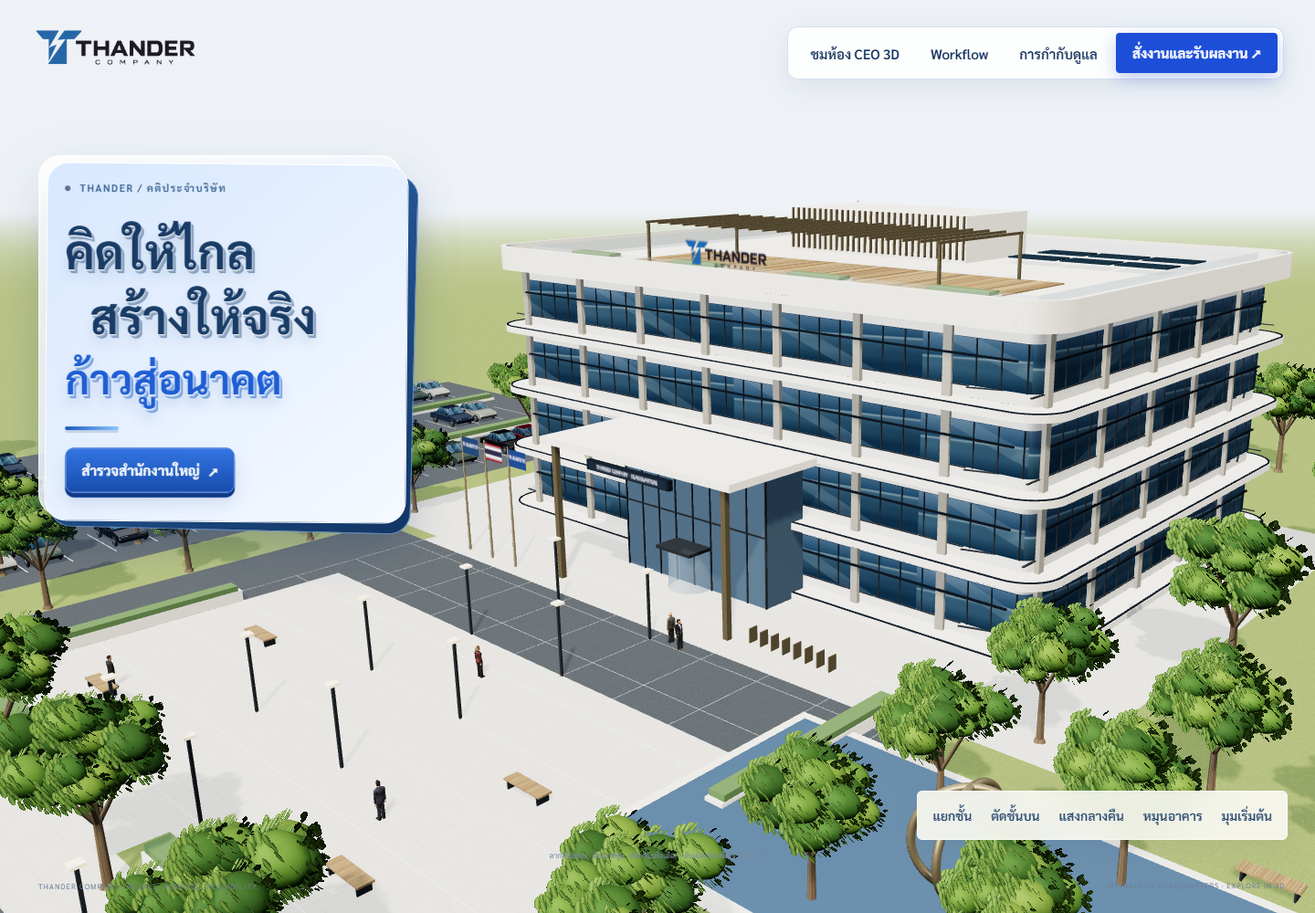
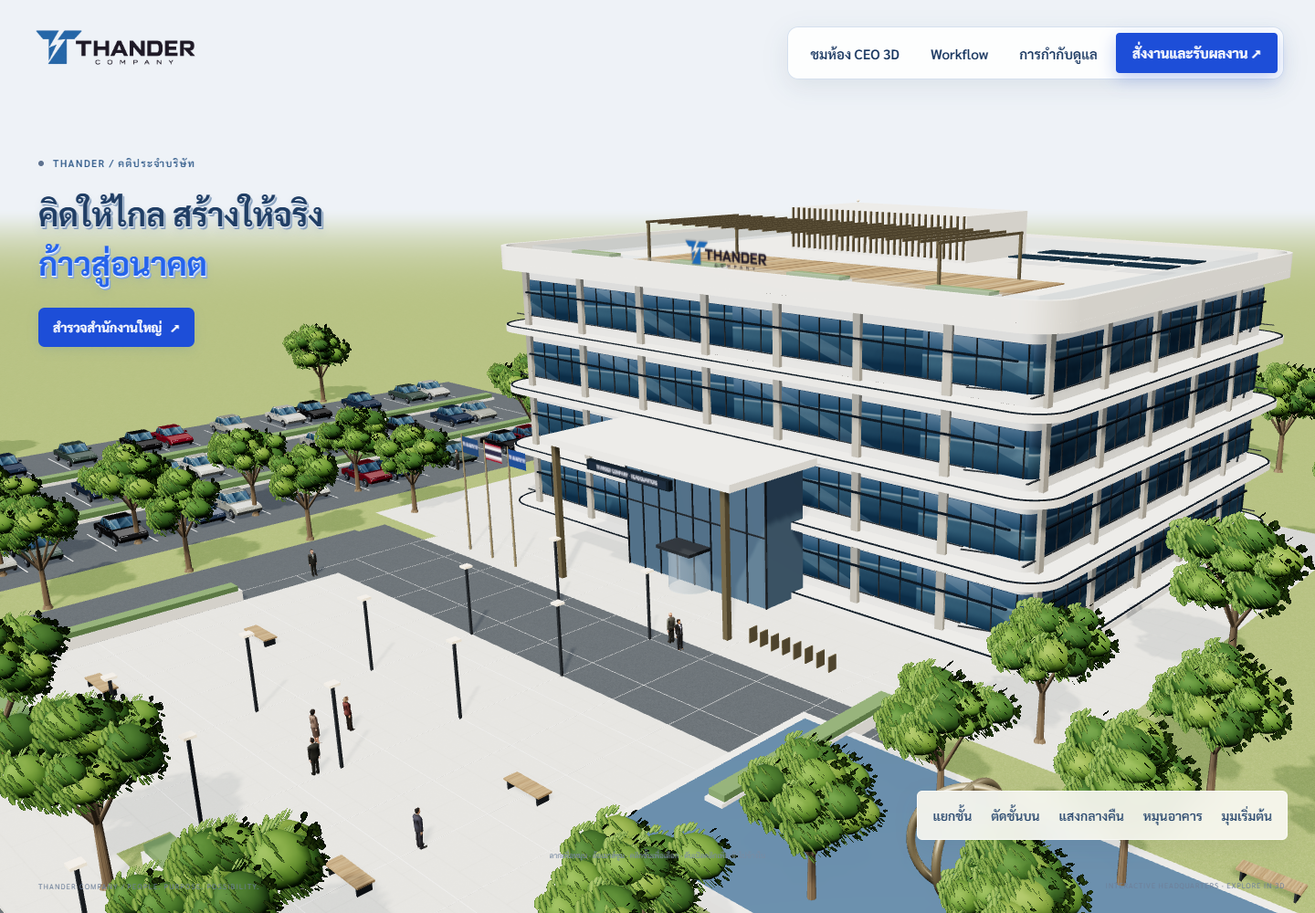
Show THANDER employee principles and compact motto

diff --git a/Portfolio.html b/Portfolio.html
@@ -3439,13 +3439,13 @@ a:focus-visible, button:focus-visible, input:focus-visible { outline: 2px solid 
         <!-- Slide 6: THANDER Company -->
         <div class="proj-slide" style="min-width:100%;overflow-y:auto;max-height:calc(90vh - 130px);">
           <div style="width:100%;aspect-ratio:600/225;background:#172d4c;overflow:hidden;position:relative;">
-            <img src="images/projects/thander-company.png" width="1440" height="1000" loading="lazy" alt="THANDER Company — คติบริษัทตัวอักษรนูนบนแผ่นซ้อน พร้อมสำนักงานใหญ่ 3D" style="width:100%;height:100%;object-fit:cover;object-position:center 47%;">
+            <img src="images/projects/thander-company.png" width="1440" height="1000" loading="lazy" alt="THANDER Company — คติบริษัทตัวอักษรนูนแบบไม่มีกรอบ พร้อมหลักรับงาน หา บอก ปล่อย ทุกแผนก" style="width:100%;height:100%;object-fit:cover;object-position:center 47%;">
             <span style="position:absolute;bottom:12px;left:16px;background:#152b32ed;padding:6px 10px;border-radius:6px;font-size:0.6rem;letter-spacing:0.1em;color:#c5daff;">4 FLOORS · 12 DEPARTMENTS · 66 ROLES</span>
           </div>
           <div style="padding:1.75rem;">
             <span style="display:inline-block;font-size:0.68rem;font-weight:700;letter-spacing:0.12em;color:#93bfff;border:1px solid #93bfff44;border-radius:99px;padding:0.25rem 0.75rem;margin-bottom:1rem;">3D Campus · Workflow · CEO Workspace</span>
             <h3 class="bento-title" style="margin-bottom:0.65rem;">THANDER Company</h3>
-            <p style="font-size:0.9rem;line-height:1.85;color:rgba(248,250,252,0.72);margin:0 0 1.25rem;">สำนักงานใหญ่ 3D ออกแบบใหม่ระดับบริษัทชั้นนำ 4 ชั้น 12 ฝ่าย 66 บทบาท ขนาดห้องตามมาตรฐานออฟฟิศจริง มีล็อบบี้ ห้องประชุมชั้นละห้อง (12/8/6 ที่นั่ง) ผนังห้องและผนังอาคารแบบทึบ Phone Booth และ Café ทุกชั้น พนักงานเดินไปมาระหว่างแผนกตลอดเวลา และหน้าแรกมีคนเดินเข้า–ออกอาคาร พนักงานทุกคนมีชื่อและชื่อเล่น (สมมติ) บนป้ายตั้งสองหน้าขนาดใหญ่ พนักงานใช้โมเดลคน 3D แบบมีโครงกระดูกและผิวต่อเนื่อง มีสรีระ ใบหน้า ผิวหนัง ทรงผม สูท มือและรองเท้า จาก Microsoft Rocketbox (MIT) ตัวนั่งและตัวเดินคงรูปลักษณ์คนเดียวกัน พร้อมต้นไม้พุ่มหลายชั้นที่มีกิ่งและใบ รถตัวถังโค้งพร้อมล้อ กระจก และไฟ ถนนแอสฟัลต์มีขอบทางและท่อระบายน้ำ ผิวหิน คอนกรีต ไม้ หญ้า และกระจกอาคารมีรายละเอียด แสงและเงาช่วยแสดงความลึก และมีบทสนทนาขึ้นเป็นข้อความทุกครั้งที่เดินมารับหรือส่งงานกับ CEO พร้อมคติ “คิดให้ไกล สร้างให้จริง ก้าวสู่อนาคต” แบบตัวอักษรนูนบนแผ่นฟ้าและน้ำเงินซ้อนเลเยอร์ เพิ่มประตูบานพับ 68 บานในห้องทำงานและพื้นที่ปิด พนักงานที่มาเยือนจะหยุดเคาะประตู ขออนุญาต รอผู้รับผิดชอบตอบแล้วจึงเปิดเข้าไป CEO ตอบอนุญาตเข้าห้องอัตโนมัติ และประตูปิดหลังเดินผ่าน ปรับอาคารเป็น 44×32 เมตร ห้องและโต๊ะมีขนาดตามจำนวนคน เพิ่มฝ่ายครีเอทีฟและสื่อชั้น 2 พร้อมกราฟิกดีไซเนอร์และนักตัดต่อวิดีโอ มีโต๊ะ จอออกแบบและไทม์ไลน์ประจำตัว พับกรอบรายละเอียดเพื่อเห็นผังภายในครบทุกชั้น เปิดดูแผนกและหน้าที่ได้เมื่อต้องการ มีคู่มือขั้นตอนการทำงานแบบทางการ 8 หัวข้อ (สถานะงาน หน้าที่ทุกฝ่าย วิธีเขียนโจทย์ แบบทดสอบ) และไดอะแกรม SVG อธิบายการทำงาน มีระบบฝากอนุมัติให้ผู้รักษาการ (G-01) ใช้ AI ตรวจและอนุมัติงานทั่วไปแทนเมื่อ CEO ไม่อยู่ โดยงานสำคัญ 7 เรื่องและงานกฎหมายยังรอ CEO และ CEO ยกเลิกการอนุมัติแทนได้ทุกฝ่าย ห้อง CEO THANDER ชั้น 1 มี CEO ผู้ชายประจำห้องเพียงคนเดียว เมื่อสั่งงาน ตัวแทนแผนกเดินผ่านทางเดินและลิฟต์มารับโจทย์แล้วกลับโต๊ะ เมื่อผลงานพร้อมตรวจจะกลับมานำเสนอ พร้อมเปิดคำตอบและไฟล์ให้ CEO ตรวจรับ มีปุ่มลองฉากตัวอย่างโดยไม่เรียก AI เชื่อมพื้นที่ทำงานส่วนตัว มีตัวเลขสรุป ค้นหา กรอง ลบงาน และกู้คืนจากถังขยะ สั่งงานครีเอทีฟได้เป็นแบบกราฟิก HTML, Storyboard และแผนตัดต่อ (ยังไม่เรนเดอร์ MP4) พร้อมสั่งงาน Claude Opus 5.5 ขอแก้ไข ตรวจรับ และดาวน์โหลดไฟล์ภาษาไทยสำหรับ Excel กำหนดวันรับงานแบบวัน/เดือน/ปี พ.ศ. เช่น 21/10/2569 แนบเอกสารอ้างอิงสูงสุด 3 ไฟล์ รวม 10 MB ผ่านพื้นที่ส่วนตัว พร้อมแสดงขนาดและความคืบหน้า มีตัวอย่างแผนคอนเทนต์ 7 วันให้ทดลองโดยไม่ใช้ AI ส่วนงาน AI จริงใช้โควต้า Free Tier ของโปรเจกต์ Google ที่ไม่เปิด Billing และไม่สลับไป OpenAI</p>
+            <p style="font-size:0.9rem;line-height:1.85;color:rgba(248,250,252,0.72);margin:0 0 1.25rem;">สำนักงานใหญ่ 3D ออกแบบใหม่ระดับบริษัทชั้นนำ 4 ชั้น 12 ฝ่าย 66 บทบาท ขนาดห้องตามมาตรฐานออฟฟิศจริง มีล็อบบี้ ห้องประชุมชั้นละห้อง (12/8/6 ที่นั่ง) ผนังห้องและผนังอาคารแบบทึบ Phone Booth และ Café ทุกชั้น พนักงานเดินไปมาระหว่างแผนกตลอดเวลา และหน้าแรกมีคนเดินเข้า–ออกอาคาร พนักงานทุกคนมีชื่อและชื่อเล่น (สมมติ) บนป้ายตั้งสองหน้าขนาดใหญ่ พนักงานใช้โมเดลคน 3D แบบมีโครงกระดูกและผิวต่อเนื่อง มีสรีระ ใบหน้า ผิวหนัง ทรงผม สูท มือและรองเท้า จาก Microsoft Rocketbox (MIT) ตัวนั่งและตัวเดินคงรูปลักษณ์คนเดียวกัน พร้อมต้นไม้พุ่มหลายชั้นที่มีกิ่งและใบ รถตัวถังโค้งพร้อมล้อ กระจก และไฟ ถนนแอสฟัลต์มีขอบทางและท่อระบายน้ำ ผิวหิน คอนกรีต ไม้ หญ้า และกระจกอาคารมีรายละเอียด แสงและเงาช่วยแสดงความลึก และมีบทสนทนาขึ้นเป็นข้อความทุกครั้งที่เดินมารับหรือส่งงานกับ CEO พร้อมคติ “คิดให้ไกล สร้างให้จริง ก้าวสู่อนาคต” กลับเป็นสองบรรทัดขนาดเล็กลง ตัวอักษรนูนสามมิติแบบไม่มีกรอบ พนักงานทั้ง 66 บทบาททุกแผนกใช้หลัก “หา · บอก · ปล่อย” ครบ 9 ข้อร่วมกัน เปิดอ่านในข้อมูลพนักงานและ Workflow พร้อมคำสั่ง AI ที่ทวนโจทย์ ใช้ตัวอย่าง ตรวจตามจุดสำคัญ และสรุปส่งต่องานยาว เพิ่มประตูบานพับ 68 บานในห้องทำงานและพื้นที่ปิด พนักงานที่มาเยือนจะหยุดเคาะประตู ขออนุญาต รอผู้รับผิดชอบตอบแล้วจึงเปิดเข้าไป CEO ตอบอนุญาตเข้าห้องอัตโนมัติ และประตูปิดหลังเดินผ่าน ปรับอาคารเป็น 44×32 เมตร ห้องและโต๊ะมีขนาดตามจำนวนคน เพิ่มฝ่ายครีเอทีฟและสื่อชั้น 2 พร้อมกราฟิกดีไซเนอร์และนักตัดต่อวิดีโอ มีโต๊ะ จอออกแบบและไทม์ไลน์ประจำตัว พับกรอบรายละเอียดเพื่อเห็นผังภายในครบทุกชั้น เปิดดูแผนกและหน้าที่ได้เมื่อต้องการ มีคู่มือขั้นตอนการทำงานแบบทางการ 8 หัวข้อ (สถานะงาน หน้าที่ทุกฝ่าย วิธีเขียนโจทย์ แบบทดสอบ) และไดอะแกรม SVG อธิบายการทำงาน มีระบบฝากอนุมัติให้ผู้รักษาการ (G-01) ใช้ AI ตรวจและอนุมัติงานทั่วไปแทนเมื่อ CEO ไม่อยู่ โดยงานสำคัญ 7 เรื่องและงานกฎหมายยังรอ CEO และ CEO ยกเลิกการอนุมัติแทนได้ทุกฝ่าย ห้อง CEO THANDER ชั้น 1 มี CEO ผู้ชายประจำห้องเพียงคนเดียว เมื่อสั่งงาน ตัวแทนแผนกเดินผ่านทางเดินและลิฟต์มารับโจทย์แล้วกลับโต๊ะ เมื่อผลงานพร้อมตรวจจะกลับมานำเสนอ พร้อมเปิดคำตอบและไฟล์ให้ CEO ตรวจรับ มีปุ่มลองฉากตัวอย่างโดยไม่เรียก AI เชื่อมพื้นที่ทำงานส่วนตัว มีตัวเลขสรุป ค้นหา กรอง ลบงาน และกู้คืนจากถังขยะ สั่งงานครีเอทีฟได้เป็นแบบกราฟิก HTML, Storyboard และแผนตัดต่อ (ยังไม่เรนเดอร์ MP4) พร้อมสั่งงาน Claude Opus 5.5 ขอแก้ไข ตรวจรับ และดาวน์โหลดไฟล์ภาษาไทยสำหรับ Excel กำหนดวันรับงานแบบวัน/เดือน/ปี พ.ศ. เช่น 21/10/2569 แนบเอกสารอ้างอิงสูงสุด 3 ไฟล์ รวม 10 MB ผ่านพื้นที่ส่วนตัว พร้อมแสดงขนาดและความคืบหน้า มีตัวอย่างแผนคอนเทนต์ 7 วันให้ทดลองโดยไม่ใช้ AI ส่วนงาน AI จริงใช้โควต้า Free Tier ของโปรเจกต์ Google ที่ไม่เปิด Billing และไม่สลับไป OpenAI</p>
             <div style="display:flex;flex-wrap:wrap;gap:0.4rem;margin-bottom:1.5rem;">
               <span style="font-size:0.7rem;padding:0.25rem 0.7rem;border:1px solid #93bfff4d;color:#93bfff;border-radius:99px;">Three.js</span><span style="font-size:0.7rem;padding:0.25rem 0.7rem;border:1px solid #93bfff4d;color:#93bfff;border-radius:99px;">Claude Opus 5.5</span><span style="font-size:0.7rem;padding:0.25rem 0.7rem;border:1px solid #93bfff4d;color:#93bfff;border-radius:99px;">Vercel Functions</span><span style="font-size:0.7rem;padding:0.25rem 0.7rem;border:1px solid #93bfff4d;color:#93bfff;border-radius:99px;">Private Blob</span>
             </div>
@@ -3469,6 +3469,9 @@ a:focus-visible, button:focus-visible, input:focus-visible { outline: 2px solid 
               <a href="images/projects/thander-ceo-male.png" target="_blank" rel="noopener" style="color:#93bfff;font-size:0.82rem;">ดู CEO ระยะใกล้ ↗</a>
               <a href="images/projects/thander-door-knock.png" target="_blank" rel="noopener" style="color:#93bfff;font-size:0.82rem;">เคาะประตูและขอเข้าห้อง ↗</a>
               <a href="images/projects/thander-door-open.png" target="_blank" rel="noopener" style="color:#93bfff;font-size:0.82rem;">ประตูเปิดหลังอนุญาต ↗</a>
+              <a href="https://thander-company-ai-campus.vercel.app/workflow.html#employeePrinciples" target="_blank" rel="noopener" style="color:#93bfff;font-size:0.82rem;">หลักรับงาน · หา บอก ปล่อย ↗</a>
+              <a href="images/projects/thander-work-principles.png" target="_blank" rel="noopener" style="color:#93bfff;font-size:0.82rem;">ดูหลักทำงาน 9 ข้อ ↗</a>
+              <a href="images/projects/thander-employee-principles.png" target="_blank" rel="noopener" style="color:#93bfff;font-size:0.82rem;">หลักประจำตัวพนักงาน ↗</a>
               <a href="images/projects/thander-nameplates.png" target="_blank" rel="noopener" style="color:#93bfff;font-size:0.82rem;">ดูป้ายชื่อโต๊ะแบบใหม่ ↗</a>
               <a href="images/projects/thander-staff-human.png" target="_blank" rel="noopener" style="color:#93bfff;font-size:0.82rem;">ดูโมเดลพนักงานชุดใหม่ ↗</a>
               <a href="images/projects/thander-landscape-detailed.png" target="_blank" rel="noopener" style="color:#93bfff;font-size:0.82rem;">ดูต้นไม้ รถยนต์ และถนน 3D ↗</a>

diff --git a/index.html b/index.html
@@ -3439,13 +3439,13 @@ a:focus-visible, button:focus-visible, input:focus-visible { outline: 2px solid 
         <!-- Slide 6: THANDER Company -->
         <div class="proj-slide" style="min-width:100%;overflow-y:auto;max-height:calc(90vh - 130px);">
           <div style="width:100%;aspect-ratio:600/225;background:#172d4c;overflow:hidden;position:relative;">
-            <img src="images/projects/thander-company.png" width="1440" height="1000" loading="lazy" alt="THANDER Company — คติบริษัทตัวอักษรนูนบนแผ่นซ้อน พร้อมสำนักงานใหญ่ 3D" style="width:100%;height:100%;object-fit:cover;object-position:center 47%;">
+            <img src="images/projects/thander-company.png" width="1440" height="1000" loading="lazy" alt="THANDER Company — คติบริษัทตัวอักษรนูนแบบไม่มีกรอบ พร้อมหลักรับงาน หา บอก ปล่อย ทุกแผนก" style="width:100%;height:100%;object-fit:cover;object-position:center 47%;">
             <span style="position:absolute;bottom:12px;left:16px;background:#152b32ed;padding:6px 10px;border-radius:6px;font-size:0.6rem;letter-spacing:0.1em;color:#c5daff;">4 FLOORS · 12 DEPARTMENTS · 66 ROLES</span>
           </div>
           <div style="padding:1.75rem;">
             <span style="display:inline-block;font-size:0.68rem;font-weight:700;letter-spacing:0.12em;color:#93bfff;border:1px solid #93bfff44;border-radius:99px;padding:0.25rem 0.75rem;margin-bottom:1rem;">3D Campus · Workflow · CEO Workspace</span>
             <h3 class="bento-title" style="margin-bottom:0.65rem;">THANDER Company</h3>
-            <p style="font-size:0.9rem;line-height:1.85;color:rgba(248,250,252,0.72);margin:0 0 1.25rem;">สำนักงานใหญ่ 3D ออกแบบใหม่ระดับบริษัทชั้นนำ 4 ชั้น 12 ฝ่าย 66 บทบาท ขนาดห้องตามมาตรฐานออฟฟิศจริง มีล็อบบี้ ห้องประชุมชั้นละห้อง (12/8/6 ที่นั่ง) ผนังห้องและผนังอาคารแบบทึบ Phone Booth และ Café ทุกชั้น พนักงานเดินไปมาระหว่างแผนกตลอดเวลา และหน้าแรกมีคนเดินเข้า–ออกอาคาร พนักงานทุกคนมีชื่อและชื่อเล่น (สมมติ) บนป้ายตั้งสองหน้าขนาดใหญ่ พนักงานใช้โมเดลคน 3D แบบมีโครงกระดูกและผิวต่อเนื่อง มีสรีระ ใบหน้า ผิวหนัง ทรงผม สูท มือและรองเท้า จาก Microsoft Rocketbox (MIT) ตัวนั่งและตัวเดินคงรูปลักษณ์คนเดียวกัน พร้อมต้นไม้พุ่มหลายชั้นที่มีกิ่งและใบ รถตัวถังโค้งพร้อมล้อ กระจก และไฟ ถนนแอสฟัลต์มีขอบทางและท่อระบายน้ำ ผิวหิน คอนกรีต ไม้ หญ้า และกระจกอาคารมีรายละเอียด แสงและเงาช่วยแสดงความลึก และมีบทสนทนาขึ้นเป็นข้อความทุกครั้งที่เดินมารับหรือส่งงานกับ CEO พร้อมคติ “คิดให้ไกล สร้างให้จริง ก้าวสู่อนาคต” แบบตัวอักษรนูนบนแผ่นฟ้าและน้ำเงินซ้อนเลเยอร์ เพิ่มประตูบานพับ 68 บานในห้องทำงานและพื้นที่ปิด พนักงานที่มาเยือนจะหยุดเคาะประตู ขออนุญาต รอผู้รับผิดชอบตอบแล้วจึงเปิดเข้าไป CEO ตอบอนุญาตเข้าห้องอัตโนมัติ และประตูปิดหลังเดินผ่าน ปรับอาคารเป็น 44×32 เมตร ห้องและโต๊ะมีขนาดตามจำนวนคน เพิ่มฝ่ายครีเอทีฟและสื่อชั้น 2 พร้อมกราฟิกดีไซเนอร์และนักตัดต่อวิดีโอ มีโต๊ะ จอออกแบบและไทม์ไลน์ประจำตัว พับกรอบรายละเอียดเพื่อเห็นผังภายในครบทุกชั้น เปิดดูแผนกและหน้าที่ได้เมื่อต้องการ มีคู่มือขั้นตอนการทำงานแบบทางการ 8 หัวข้อ (สถานะงาน หน้าที่ทุกฝ่าย วิธีเขียนโจทย์ แบบทดสอบ) และไดอะแกรม SVG อธิบายการทำงาน มีระบบฝากอนุมัติให้ผู้รักษาการ (G-01) ใช้ AI ตรวจและอนุมัติงานทั่วไปแทนเมื่อ CEO ไม่อยู่ โดยงานสำคัญ 7 เรื่องและงานกฎหมายยังรอ CEO และ CEO ยกเลิกการอนุมัติแทนได้ทุกฝ่าย ห้อง CEO THANDER ชั้น 1 มี CEO ผู้ชายประจำห้องเพียงคนเดียว เมื่อสั่งงาน ตัวแทนแผนกเดินผ่านทางเดินและลิฟต์มารับโจทย์แล้วกลับโต๊ะ เมื่อผลงานพร้อมตรวจจะกลับมานำเสนอ พร้อมเปิดคำตอบและไฟล์ให้ CEO ตรวจรับ มีปุ่มลองฉากตัวอย่างโดยไม่เรียก AI เชื่อมพื้นที่ทำงานส่วนตัว มีตัวเลขสรุป ค้นหา กรอง ลบงาน และกู้คืนจากถังขยะ สั่งงานครีเอทีฟได้เป็นแบบกราฟิก HTML, Storyboard และแผนตัดต่อ (ยังไม่เรนเดอร์ MP4) พร้อมสั่งงาน Claude Opus 5.5 ขอแก้ไข ตรวจรับ และดาวน์โหลดไฟล์ภาษาไทยสำหรับ Excel กำหนดวันรับงานแบบวัน/เดือน/ปี พ.ศ. เช่น 21/10/2569 แนบเอกสารอ้างอิงสูงสุด 3 ไฟล์ รวม 10 MB ผ่านพื้นที่ส่วนตัว พร้อมแสดงขนาดและความคืบหน้า มีตัวอย่างแผนคอนเทนต์ 7 วันให้ทดลองโดยไม่ใช้ AI ส่วนงาน AI จริงใช้โควต้า Free Tier ของโปรเจกต์ Google ที่ไม่เปิด Billing และไม่สลับไป OpenAI</p>
+            <p style="font-size:0.9rem;line-height:1.85;color:rgba(248,250,252,0.72);margin:0 0 1.25rem;">สำนักงานใหญ่ 3D ออกแบบใหม่ระดับบริษัทชั้นนำ 4 ชั้น 12 ฝ่าย 66 บทบาท ขนาดห้องตามมาตรฐานออฟฟิศจริง มีล็อบบี้ ห้องประชุมชั้นละห้อง (12/8/6 ที่นั่ง) ผนังห้องและผนังอาคารแบบทึบ Phone Booth และ Café ทุกชั้น พนักงานเดินไปมาระหว่างแผนกตลอดเวลา และหน้าแรกมีคนเดินเข้า–ออกอาคาร พนักงานทุกคนมีชื่อและชื่อเล่น (สมมติ) บนป้ายตั้งสองหน้าขนาดใหญ่ พนักงานใช้โมเดลคน 3D แบบมีโครงกระดูกและผิวต่อเนื่อง มีสรีระ ใบหน้า ผิวหนัง ทรงผม สูท มือและรองเท้า จาก Microsoft Rocketbox (MIT) ตัวนั่งและตัวเดินคงรูปลักษณ์คนเดียวกัน พร้อมต้นไม้พุ่มหลายชั้นที่มีกิ่งและใบ รถตัวถังโค้งพร้อมล้อ กระจก และไฟ ถนนแอสฟัลต์มีขอบทางและท่อระบายน้ำ ผิวหิน คอนกรีต ไม้ หญ้า และกระจกอาคารมีรายละเอียด แสงและเงาช่วยแสดงความลึก และมีบทสนทนาขึ้นเป็นข้อความทุกครั้งที่เดินมารับหรือส่งงานกับ CEO พร้อมคติ “คิดให้ไกล สร้างให้จริง ก้าวสู่อนาคต” กลับเป็นสองบรรทัดขนาดเล็กลง ตัวอักษรนูนสามมิติแบบไม่มีกรอบ พนักงานทั้ง 66 บทบาททุกแผนกใช้หลัก “หา · บอก · ปล่อย” ครบ 9 ข้อร่วมกัน เปิดอ่านในข้อมูลพนักงานและ Workflow พร้อมคำสั่ง AI ที่ทวนโจทย์ ใช้ตัวอย่าง ตรวจตามจุดสำคัญ และสรุปส่งต่องานยาว เพิ่มประตูบานพับ 68 บานในห้องทำงานและพื้นที่ปิด พนักงานที่มาเยือนจะหยุดเคาะประตู ขออนุญาต รอผู้รับผิดชอบตอบแล้วจึงเปิดเข้าไป CEO ตอบอนุญาตเข้าห้องอัตโนมัติ และประตูปิดหลังเดินผ่าน ปรับอาคารเป็น 44×32 เมตร ห้องและโต๊ะมีขนาดตามจำนวนคน เพิ่มฝ่ายครีเอทีฟและสื่อชั้น 2 พร้อมกราฟิกดีไซเนอร์และนักตัดต่อวิดีโอ มีโต๊ะ จอออกแบบและไทม์ไลน์ประจำตัว พับกรอบรายละเอียดเพื่อเห็นผังภายในครบทุกชั้น เปิดดูแผนกและหน้าที่ได้เมื่อต้องการ มีคู่มือขั้นตอนการทำงานแบบทางการ 8 หัวข้อ (สถานะงาน หน้าที่ทุกฝ่าย วิธีเขียนโจทย์ แบบทดสอบ) และไดอะแกรม SVG อธิบายการทำงาน มีระบบฝากอนุมัติให้ผู้รักษาการ (G-01) ใช้ AI ตรวจและอนุมัติงานทั่วไปแทนเมื่อ CEO ไม่อยู่ โดยงานสำคัญ 7 เรื่องและงานกฎหมายยังรอ CEO และ CEO ยกเลิกการอนุมัติแทนได้ทุกฝ่าย ห้อง CEO THANDER ชั้น 1 มี CEO ผู้ชายประจำห้องเพียงคนเดียว เมื่อสั่งงาน ตัวแทนแผนกเดินผ่านทางเดินและลิฟต์มารับโจทย์แล้วกลับโต๊ะ เมื่อผลงานพร้อมตรวจจะกลับมานำเสนอ พร้อมเปิดคำตอบและไฟล์ให้ CEO ตรวจรับ มีปุ่มลองฉากตัวอย่างโดยไม่เรียก AI เชื่อมพื้นที่ทำงานส่วนตัว มีตัวเลขสรุป ค้นหา กรอง ลบงาน และกู้คืนจากถังขยะ สั่งงานครีเอทีฟได้เป็นแบบกราฟิก HTML, Storyboard และแผนตัดต่อ (ยังไม่เรนเดอร์ MP4) พร้อมสั่งงาน Claude Opus 5.5 ขอแก้ไข ตรวจรับ และดาวน์โหลดไฟล์ภาษาไทยสำหรับ Excel กำหนดวันรับงานแบบวัน/เดือน/ปี พ.ศ. เช่น 21/10/2569 แนบเอกสารอ้างอิงสูงสุด 3 ไฟล์ รวม 10 MB ผ่านพื้นที่ส่วนตัว พร้อมแสดงขนาดและความคืบหน้า มีตัวอย่างแผนคอนเทนต์ 7 วันให้ทดลองโดยไม่ใช้ AI ส่วนงาน AI จริงใช้โควต้า Free Tier ของโปรเจกต์ Google ที่ไม่เปิด Billing และไม่สลับไป OpenAI</p>
             <div style="display:flex;flex-wrap:wrap;gap:0.4rem;margin-bottom:1.5rem;">
               <span style="font-size:0.7rem;padding:0.25rem 0.7rem;border:1px solid #93bfff4d;color:#93bfff;border-radius:99px;">Three.js</span><span style="font-size:0.7rem;padding:0.25rem 0.7rem;border:1px solid #93bfff4d;color:#93bfff;border-radius:99px;">Claude Opus 5.5</span><span style="font-size:0.7rem;padding:0.25rem 0.7rem;border:1px solid #93bfff4d;color:#93bfff;border-radius:99px;">Vercel Functions</span><span style="font-size:0.7rem;padding:0.25rem 0.7rem;border:1px solid #93bfff4d;color:#93bfff;border-radius:99px;">Private Blob</span>
             </div>
@@ -3469,6 +3469,9 @@ a:focus-visible, button:focus-visible, input:focus-visible { outline: 2px solid 
               <a href="images/projects/thander-ceo-male.png" target="_blank" rel="noopener" style="color:#93bfff;font-size:0.82rem;">ดู CEO ระยะใกล้ ↗</a>
               <a href="images/projects/thander-door-knock.png" target="_blank" rel="noopener" style="color:#93bfff;font-size:0.82rem;">เคาะประตูและขอเข้าห้อง ↗</a>
               <a href="images/projects/thander-door-open.png" target="_blank" rel="noopener" style="color:#93bfff;font-size:0.82rem;">ประตูเปิดหลังอนุญาต ↗</a>
+              <a href="https://thander-company-ai-campus.vercel.app/workflow.html#employeePrinciples" target="_blank" rel="noopener" style="color:#93bfff;font-size:0.82rem;">หลักรับงาน · หา บอก ปล่อย ↗</a>
+              <a href="images/projects/thander-work-principles.png" target="_blank" rel="noopener" style="color:#93bfff;font-size:0.82rem;">ดูหลักทำงาน 9 ข้อ ↗</a>
+              <a href="images/projects/thander-employee-principles.png" target="_blank" rel="noopener" style="color:#93bfff;font-size:0.82rem;">หลักประจำตัวพนักงาน ↗</a>
               <a href="images/projects/thander-nameplates.png" target="_blank" rel="noopener" style="color:#93bfff;font-size:0.82rem;">ดูป้ายชื่อโต๊ะแบบใหม่ ↗</a>
               <a href="images/projects/thander-staff-human.png" target="_blank" rel="noopener" style="color:#93bfff;font-size:0.82rem;">ดูโมเดลพนักงานชุดใหม่ ↗</a>
               <a href="images/projects/thander-landscape-detailed.png" target="_blank" rel="noopener" style="color:#93bfff;font-size:0.82rem;">ดูต้นไม้ รถยนต์ และถนน 3D ↗</a>

diff --git a/README.md b/README.md
@@ -112,3 +112,6 @@ THANDER CEO is explicitly male with a fixed avatar across the public office and 
 
 
 THANDER room doors and motto (21 October 2026): enclosed offices/shared rooms now have 68 hinged doors. Guests stop, knock, ask and wait for the host before entry; the CEO grants entry automatically. Doors close after passage. The homepage removes the selected paragraph and uses raised motto lettering on layered blue plates. Refreshed the homepage image and added door request/open previews. Build/check, 70 tests, seven responsive layouts and cross-floor receipt/presentation in normal/reduced-motion modes passed without AI calls or private work changes. Both portfolio HTML pages are identical.
+
+
+THANDER update: restored the original two-line company motto with smaller raised lettering and no frame. Added the user's nine “หา · บอก · ปล่อย” working practices to all 66 employee profiles, 22 room guides, Workflow, downloadable guidance and every department/role's AI instructions. Updated the homepage preview and added principles/profile previews. Build/check, 72 tests, seven homepage layouts and four Workflow widths passed without AI calls or private work changes. index.html and Portfolio.html remain identical.
